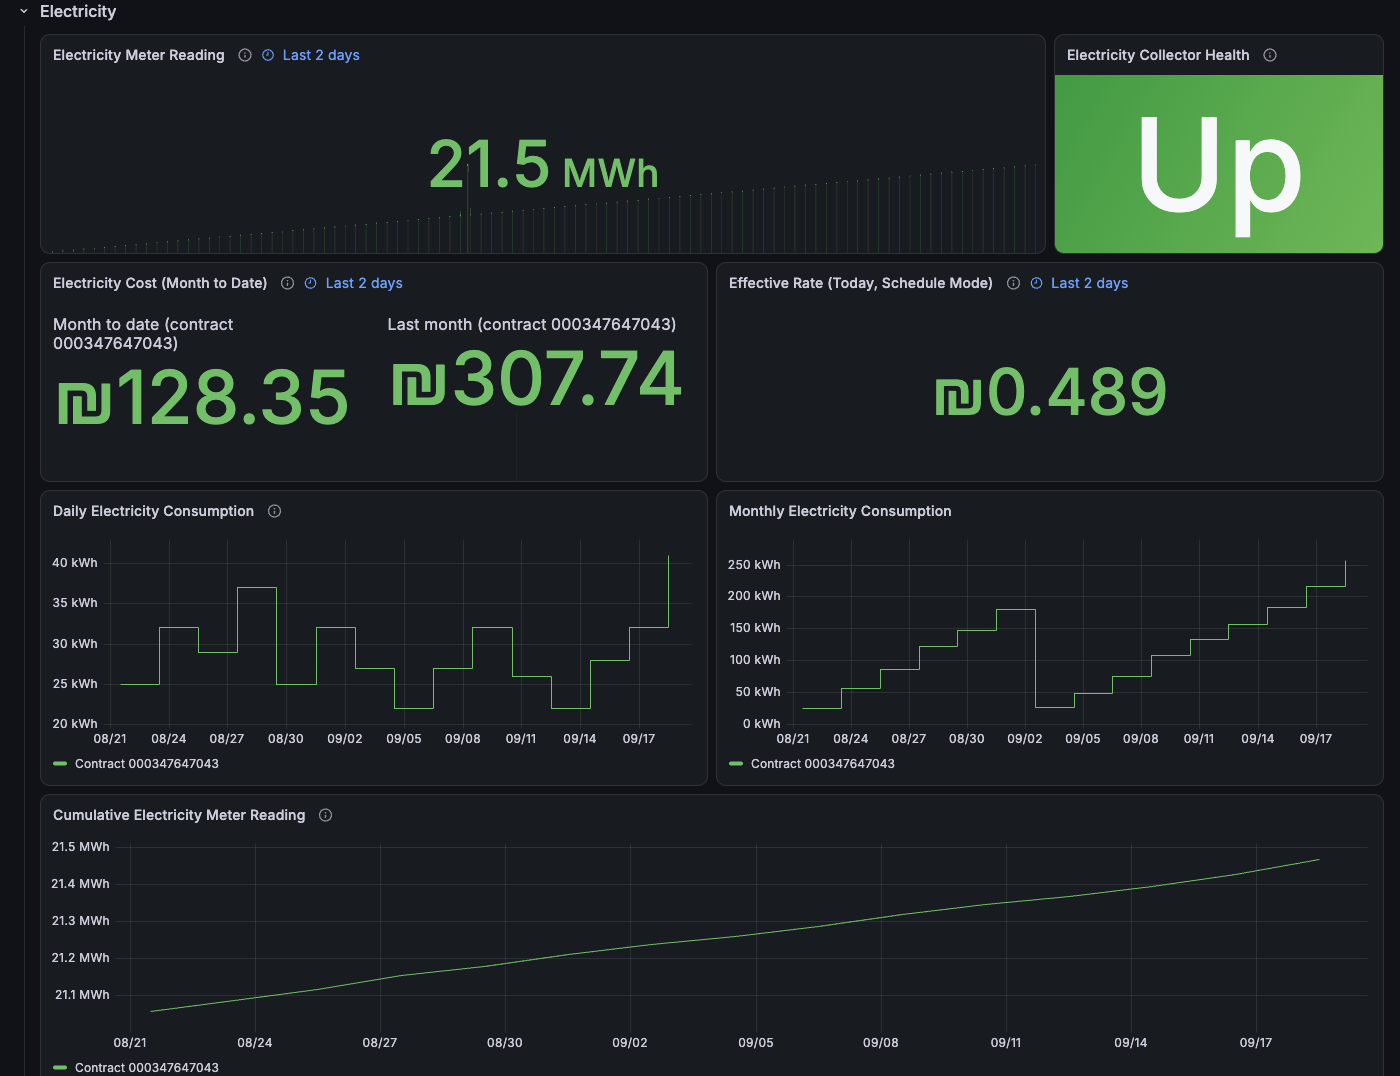
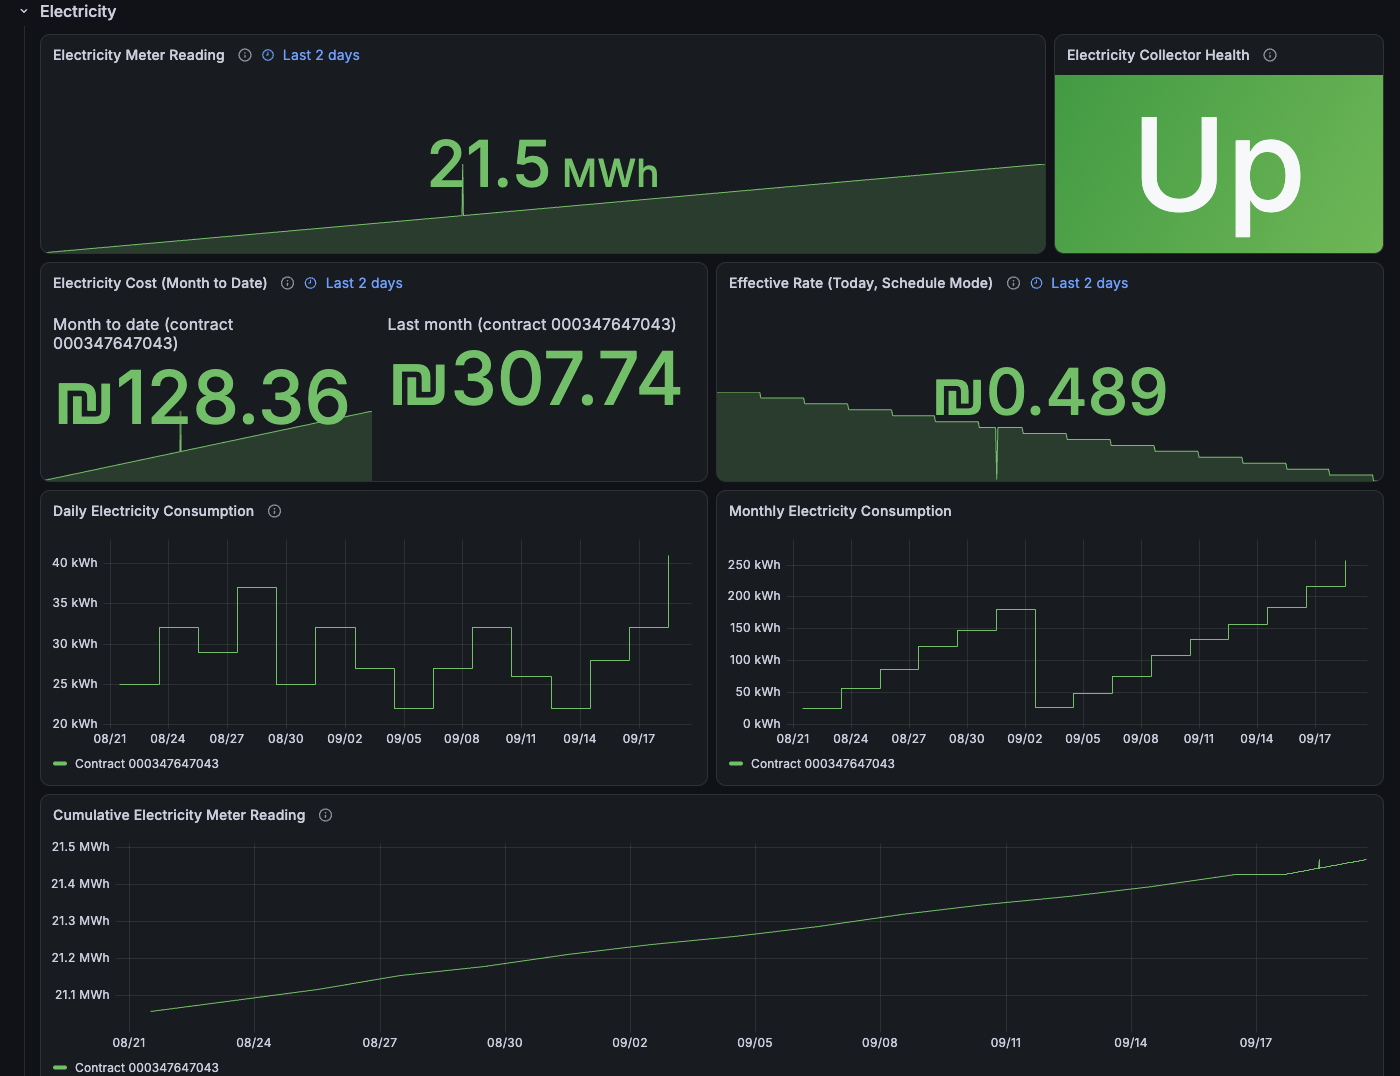
fix: sparklines rendered as disconnected ticks, cost panels squashed flat
Two follow-ups to the previous timeFrom: 2d fix:

1. The demo/screenshot seeder's density helper had a stale multiplier
   left over from an earlier tuning pass (STEPS bumped repeatedly
   without updating the "* 30 * 60_000" spacing math it multiplied
   against), so raising STEPS just stretched the covered span to 60
   days instead of increasing density within the real 2-day window.
   Grafana's query then found only a few real samples per real 2-min
   step near each stale data point, rendering as disconnected tick
   marks instead of a connected line. Not a Grafana bug — a bug in
   this repo's own demo data generator. Fixed the spacing math.

2. The Water Cost / Electricity Cost panels' "Month to date" and
   "Forecast" sparklines still rendered as a barely-visible sliver
   even with correct dense data, because a multi-field stat panel
   auto-scales its sparklines against *all* fields' values by
   default — including "Last month" (2-3x larger, and not even
   drawing its own sparkline). Fixed with `fieldMinMax: true` so each
   field scales to its own range.

Regenerated both dashboard screenshots again with working, visible
sparklines throughout.

diff --git a/CHANGELOG.md b/CHANGELOG.md
@@ -73,6 +73,15 @@ headings in the `## [x.y.z] - YYYY-MM-DD` form.
   to `timeFrom: 2d`, independent of whatever range the rest of the dashboard
   is showing — the same real per-minute Prometheus scrape data that made the
   sparkline invisible at 30 days renders it fine at 2.
+- The "Water Cost" and "Electricity Cost (Month to Date)" panels' sparklines
+  for the "Month to date"/"Forecast" values rendered as a barely-visible
+  sliver even after the fix above, because a stat panel with multiple fields
+  auto-scales its sparklines' Y-axis using *all* fields' values by default —
+  including "Last month" (a much larger number that doesn't even draw a
+  sparkline itself, `graphMode: none`), which squashed the actually-relevant
+  trend into a thin band. Fixed by setting `fieldMinMax: true` so each
+  field's sparkline scales to its own range instead of sharing one across
+  the whole panel.
 
 ## [0.6.0] - 2026-09-19
 
